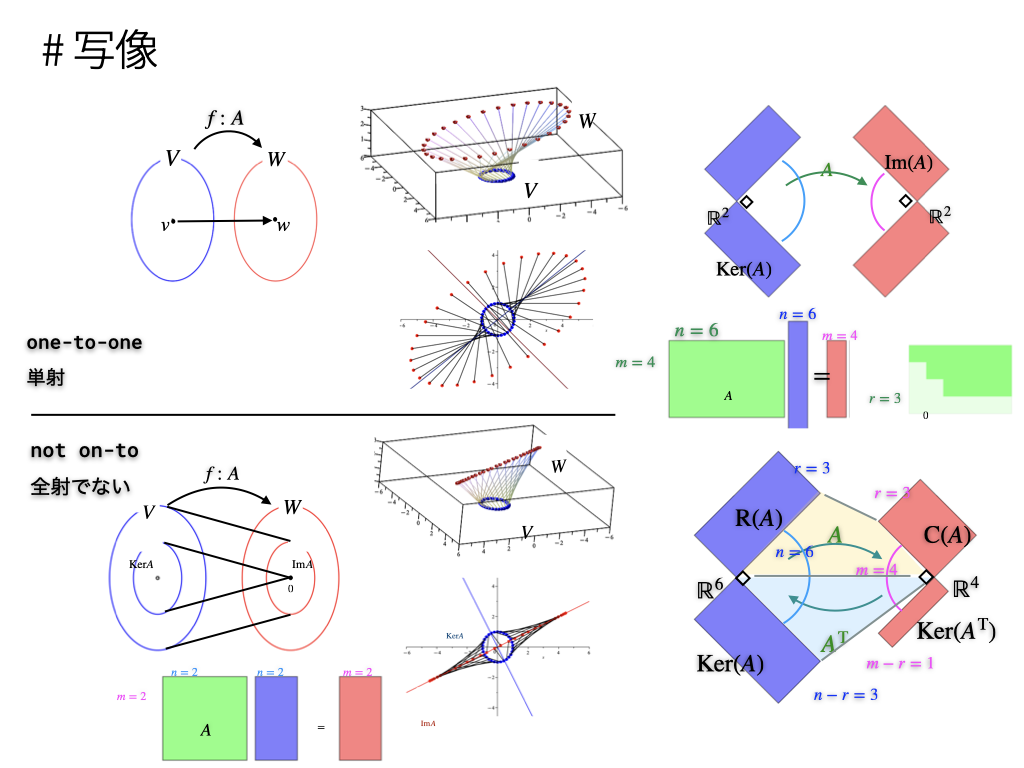
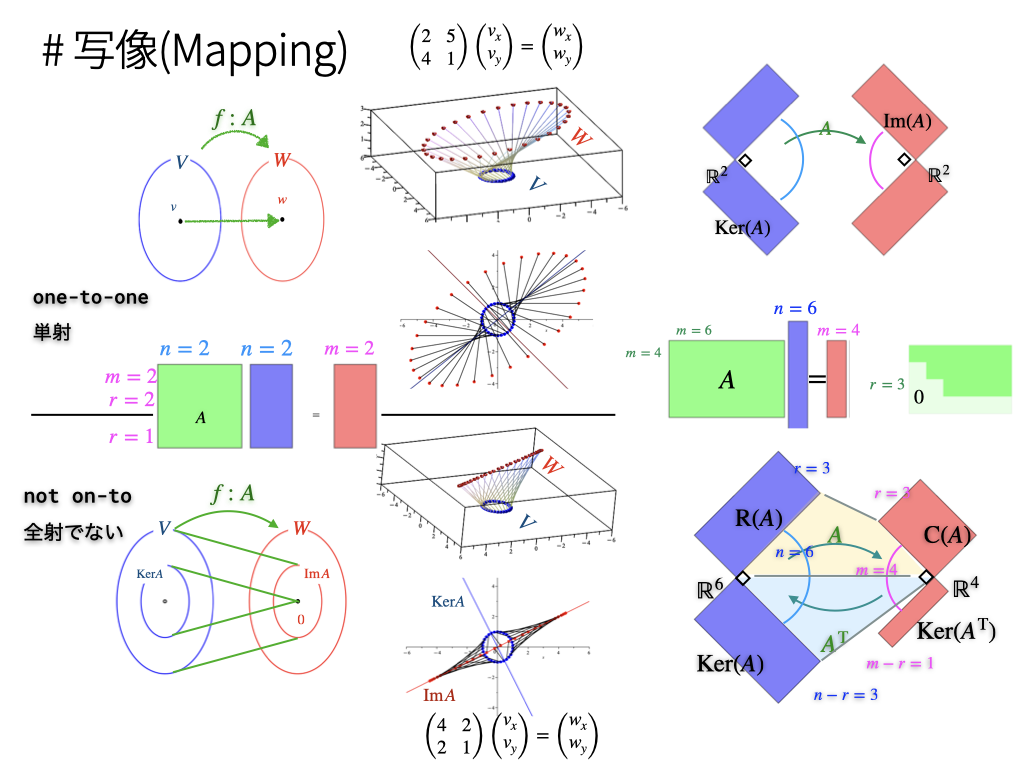
mk sym link for la

diff --git a/intro_info_26s.html b/intro_info_26s.html
@@ -2,23 +2,23 @@
 <html>
 <head>
   <meta charset="utf-8">
-  <title>intro_info</title>
+  <title>卓上スパコン(西谷) / 情報工学概論</title>
   <link rel="stylesheet" href="style.css">
 </head>
 <body>
   <div id="table-of-contents">
     <h2>Table of Contents</h2>
     <ul>
-      <li><a href="#section-0">セクション 0</a></li>
-      <li><a href="#section-1">セクション 1</a></li>
+      <li><a href="#section-0">知識の構造</a></li>
+      <li><a href="#section-1">イメージ</a></li>
 
     </ul>
   </div>
   <div id="content">
-    <h1 class="title">intro_info</h1>
+    <h1 class="title">卓上スパコン(西谷) / 情報工学概論</h1>
     <p>画像をクリックしてもリンクに飛びます.</p>
  
-    <h2 id="section-0">セクション 0</h2>
+    <h2 id="section-0">知識の構造</h2>
     <div class="outline-text-2">
       <table class="light-table" style="width: 100%; border-collapse: collapse;">
         <tr>
@@ -37,33 +37,33 @@
             alt="intro_info.002.png" 
             loading="lazy" 
             style="width: 100%; height: auto; display: block; margin-bottom: 8px;">
-          <span style="display: block; text-align: center; font-size: 0.9em; word-break: break-all;">卓上スパコン(西谷) / 情報工学概論</span>
-        </a>
-      </td>
-      <td style="padding: 5px; vertical-align: top; width: 33.33%;">
-        <a href="c2_solar_system/readme.html" target="_blank" style="text-decoration: none; color: inherit;">
-          <img src="c2_solar_system/kepler_harmonic/kepler_harmonic.002.png" 
-            alt="kepler_harmonic.002.png" 
-            loading="lazy" 
-            style="width: 100%; height: auto; display: block; margin-bottom: 8px;">
-          <span style="display: block; text-align: center; font-size: 0.9em; word-break: break-all;">ケプラーの法則イメージ / 卓上スパコン(西谷)</span>
+          <span style="display: block; text-align: center; font-size: 0.9em; word-break: break-all;">LLM, GFlop/s</span>
         </a>
       </td>
 
         </tr>
       </table>
     </div>
-    <h2 id="section-1">セクション 1</h2>
+    <h2 id="section-1">イメージ</h2>
     <div class="outline-text-2">
       <table class="light-table" style="width: 100%; border-collapse: collapse;">
         <tr>
       <td style="padding: 5px; vertical-align: top; width: 33.33%;">
-        <a href="c3_linear_algebra_core/readme.html" target="_blank" style="text-decoration: none; color: inherit;">
-          <img src="c3_linear_algebra_core/linear_algebra_core/linear_algebra_core.004.png" 
-            alt="linear_algebra_core.004.png" 
+        <a href="c2_solar_system/readme.html" target="_blank" style="text-decoration: none; color: inherit;">
+          <img src="c2_solar_system/kepler_harmonic/kepler_harmonic.002.png" 
+            alt="kepler_harmonic.002.png" 
             loading="lazy" 
             style="width: 100%; height: auto; display: block; margin-bottom: 8px;">
-          <span style="display: block; text-align: center; font-size: 0.9em; word-break: break-all;">線形代数イメージ / 卓上スパコン(西谷)</span>
+          <span style="display: block; text-align: center; font-size: 0.9em; word-break: break-all;">ケプラーの法則イメージ</span>
+        </a>
+      </td>
+      <td style="padding: 5px; vertical-align: top; width: 33.33%;">
+        <a href="c3_linear_algebra_core/readme.html" target="_blank" style="text-decoration: none; color: inherit;">
+          <img src="c3_linear_algebra_core/linear_algebra_core/linear_algebra_core.003.png" 
+            alt="linear_algebra_core.003.png" 
+            loading="lazy" 
+            style="width: 100%; height: auto; display: block; margin-bottom: 8px;">
+          <span style="display: block; text-align: center; font-size: 0.9em; word-break: break-all;">線形代数イメージ</span>
         </a>
       </td>
 

diff --git a/c3_linear_algebra_core/readme.html b/c3_linear_algebra_core/readme.html
@@ -3,7 +3,7 @@
 "http://www.w3.org/TR/xhtml1/DTD/xhtml1-strict.dtd">
 <html xmlns="http://www.w3.org/1999/xhtml" lang="jp" xml:lang="jp">
 <head>
-<!-- 2026-06-03 Wed 06:31 -->
+<!-- 2026-06-04 Thu 10:44 -->
 <meta http-equiv="Content-Type" content="text/html;charset=utf-8" />
 <meta name="viewport" content="width=device-width, initial-scale=1" />
 <title>線形代数イメージ / 卓上スパコン(西谷)</title>
@@ -198,31 +198,55 @@
 <body>
 <div id="content" class="content">
 <h1 class="title">線形代数イメージ / 卓上スパコン(西谷)</h1>
+<div id="table-of-contents" role="doc-toc">
+<h2>Table of Contents</h2>
+<div id="text-table-of-contents" role="doc-toc">
+<ul>
+<li><a href="#org1ba7a21">1. 写像(Mapping)</a></li>
+<li><a href="#org63a7479">2. CPA vs QR</a></li>
+</ul>
+</div>
+</div>
 <p>
 <a href="../c2_solar_system/readme.html">prev_button</a>
 <a href="../intro_info_26s.html">up_button</a>
 <a href="../c0_mk_stack_dir/readme.html">next_button</a>
 </p>
-
+<div id="outline-container-org1ba7a21" class="outline-2">
+<h2 id="org1ba7a21"><span class="section-number-2">1.</span> 写像(Mapping)</h2>
+<div class="outline-text-2" id="text-1">
 <table border="2" cellspacing="0" cellpadding="6" rules="groups" frame="hsides">
 
 
 <colgroup>
 <col  class="org-left" />
-
-<col  class="org-left" />
 </colgroup>
 <tbody>
 <tr>
 <td class="org-left"><img src="./linear_algebra_core/linear_algebra_core.003.png" alt="linear_algebra_core.003.png" /></td>
-<td class="org-left"><img src="./linear_algebra_core/linear_algebra_core.004.png" alt="linear_algebra_core.004.png" /></td>
+</tr>
+
+<tr>
+<td class="org-left">行列の４空間：線形代数のロケットスタート(by Gilbert Strang).</td>
 </tr>
 </tbody>
 </table>
 </div>
+</div>
+<div id="outline-container-org63a7479" class="outline-2">
+<h2 id="org63a7479"><span class="section-number-2">2.</span> CPA vs QR</h2>
+<div class="outline-text-2" id="text-2">
+
+<div id="orga40883d" class="figure">
+<p><img src="./linear_algebra_core/linear_algebra_core.004.png" alt="linear_algebra_core.004.png" />
+</p>
+</div>
+</div>
+</div>
+</div>
 <div id="postamble" class="status">
 <p class="author">Author: Shigeto R. Nishitani</p>
-<p class="date">Created: 2026-06-03 Wed 06:31</p>
+<p class="date">Created: 2026-06-04 Thu 10:44</p>
 <p class="validation"><a href="https://validator.w3.org/check?uri=referer">Validate</a></p>
 </div>
 </body>

diff --git a/c2_solar_system/readme.html b/c2_solar_system/readme.html
@@ -3,7 +3,7 @@
 "http://www.w3.org/TR/xhtml1/DTD/xhtml1-strict.dtd">
 <html xmlns="http://www.w3.org/1999/xhtml" lang="jp" xml:lang="jp">
 <head>
-<!-- 2026-06-04 Thu 09:35 -->
+<!-- 2026-06-04 Thu 10:14 -->
 <meta http-equiv="Content-Type" content="text/html;charset=utf-8" />
 <meta name="viewport" content="width=device-width, initial-scale=1" />
 <title>ケプラーの法則イメージ / 卓上スパコン(西谷)</title>
@@ -193,7 +193,7 @@
     { background-color: #ffff00; color: #000000; font-weight: bold; }
   .org-svg { }
 </style>
-<link rel="stylesheet" type="text/css" href="style.css" />
+<link rel="stylesheet" type="text/css" href="style_w_link_button_one_column.css" />
 <script>
   window.MathJax = {
     tex: {
@@ -234,8 +234,8 @@
 <h2>Table of Contents</h2>
 <div id="text-table-of-contents" role="doc-toc">
 <ul>
-<li><a href="#org46c952b">1. ケプラーの法則のイメージ(重力場)</a></li>
-<li><a href="#org9e4e8c6">2. 調和の法則(Kepler's third law: Harmonies)</a></li>
+<li><a href="#orgaa9837d">1. ケプラーの法則のイメージ(重力場)</a></li>
+<li><a href="#org11fce9e">2. 調和の法則(Kepler's third law: Harmonies)</a></li>
 </ul>
 </div>
 </div>
@@ -244,8 +244,8 @@
 <a href="../intro_info_26s.html">up_button</a>
 <a href="../c3_linear_algebra_core/readme.html">next_button</a>
 </p>
-<div id="outline-container-org46c952b" class="outline-2">
-<h2 id="org46c952b"><span class="section-number-2">1.</span> ケプラーの法則のイメージ(重力場)</h2>
+<div id="outline-container-orgaa9837d" class="outline-2">
+<h2 id="orgaa9837d"><span class="section-number-2">1.</span> ケプラーの法則のイメージ(重力場)</h2>
 <div class="outline-text-2" id="text-1">
 <table border="2" cellspacing="0" cellpadding="6" rules="groups" frame="hsides">
 
@@ -261,8 +261,8 @@
 </table>
 </div>
 </div>
-<div id="outline-container-org9e4e8c6" class="outline-2">
-<h2 id="org9e4e8c6"><span class="section-number-2">2.</span> 調和の法則(Kepler's third law: Harmonies)</h2>
+<div id="outline-container-org11fce9e" class="outline-2">
+<h2 id="org11fce9e"><span class="section-number-2">2.</span> 調和の法則(Kepler's third law: Harmonies)</h2>
 <div class="outline-text-2" id="text-2">
 <table border="2" cellspacing="0" cellpadding="6" rules="groups" frame="hsides">
 
@@ -365,7 +365,7 @@
 </div>
 <div id="postamble" class="status">
 <p class="author">Author: Shigeto R. Nishitani</p>
-<p class="date">Created: 2026-06-04 Thu 09:35</p>
+<p class="date">Created: 2026-06-04 Thu 10:14</p>
 <p class="validation"><a href="https://validator.w3.org/check?uri=referer">Validate</a></p>
 </div>
 </body>